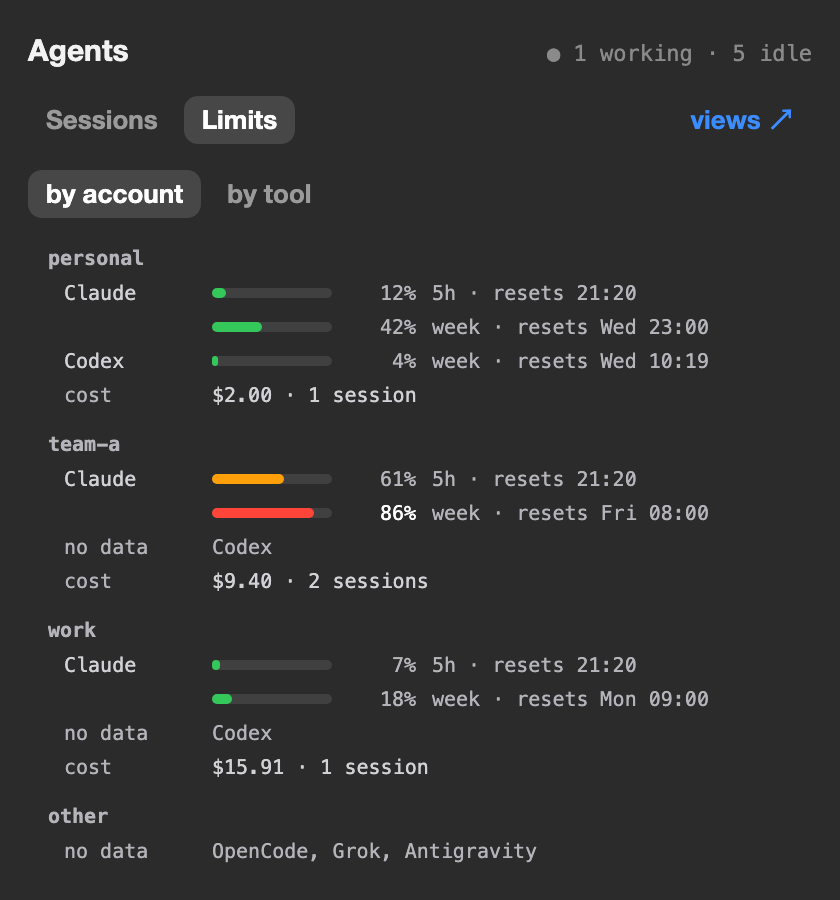
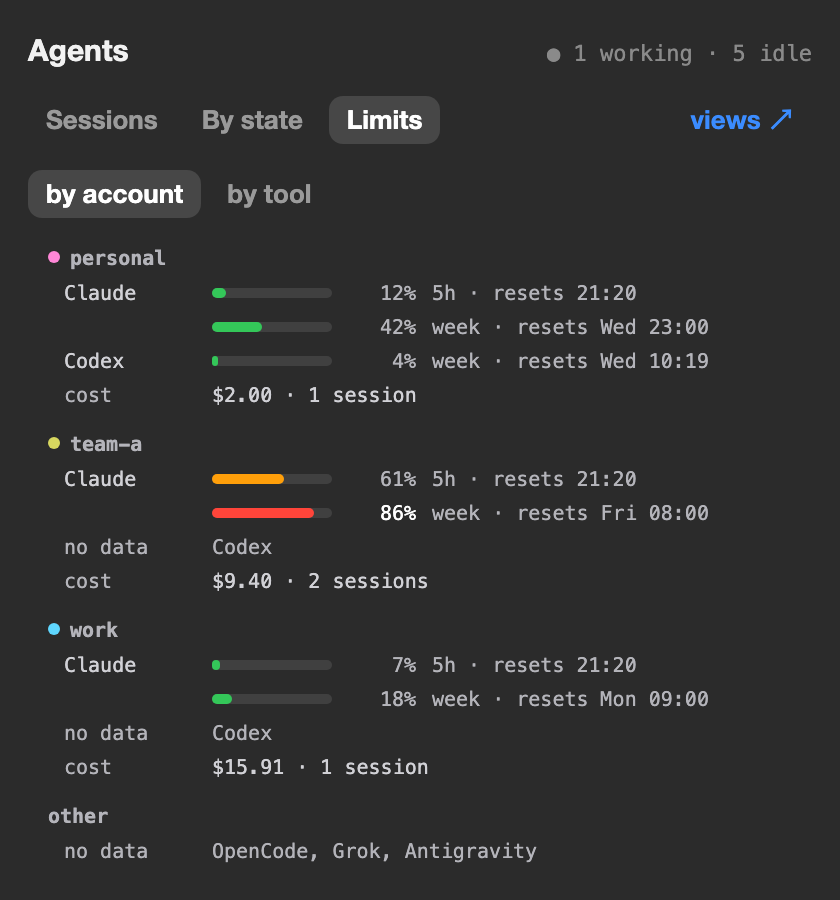
Cut the controls to three rows; account dots; chip colours as on the rows
Row 1 is Sessions | By state | Limits. Here is a chip. The attention sort,
the word account and the zero-count chip are gone. An account name is
neutral with a dot in its colour. The train strip hides in Limits.

Claude-Session: https://claude.ai/code/session_01HXnduJEMf4sVkPrvQkemg9

diff --git a/sidebars/agents.js b/sidebars/agents.js
@@ -30,7 +30,6 @@ const [showLimitsS, setShowLimitsS] = signal(null);
 const [scopeAllS, setScopeAllS] = signal(null);
 const [showEndedS, setShowEndedS] = signal(null);
 const [filterS, setFilterS] = signal(null);
-const [attentionS, setAttentionS] = signal(null);
 // Groups folded or opened since the reload (workspace id -> Bool) and sessions whose subagent rows are open (row id -> true).
 const [collapsedS, setCollapsedS] = signal({});
 const VIEW_RE = /^@view: ([a-z]=[a-z0-9]{1,12}(?:,[a-z]=[a-z0-9]{1,12}){0,7})$/;
@@ -75,7 +74,6 @@ const acctColor = (name) => {
 const flip = (get, set, id) => set({ ...get(), [id]: !get()[id] });
 // One filter chip at a time ("" = all rows), and the row order: tab order, or the sessions that need attention first.
 const filter = () => { const c = filterS() ?? saved().c; return FILTERS.some((f) => f[0] === c) ? c : ""; };
-const attention = () => attentionS() ?? saved().a;
 // Each chip is a short mark, so the row fits a narrow panel; the full name shows on hover.
 const FILTERS = [["needs", "!", "needs you"], ["done", "✓", "finished, not seen"], ["working", "▶", "working"], ["ctx", "80%", "context 80% or more"], ["pr", "PR", "has a PR"], ["idle", "1h+", "idle for 1 hour or more"], ["you", "you", "the next step is yours"], ["push", "push", "commits that no remote holds"]];
 // "Next: you push both repos": the next step is the reader's when the line starts with "you" or "owner".
@@ -106,14 +104,15 @@ function persist(next, wsId, fold) {
 }
 // One change of the view: c = chip, a = attention sort, s = all workspaces, e = ended rows, l = the Limits view.
 function setView(patch) {
-  const next = { c: filter(), a: attention(), s: scopeAll(), e: showEnded(), l: showLimits(), ...patch };
-  setFilterS(next.c); setAttentionS(next.a); setScopeAllS(next.s); setShowEndedS(next.e); setShowLimitsS(next.l);
+  // "a" was the attention sort; the panel has no such control now, and the saved view keeps the field as off.
+  const next = { c: filter(), a: false, s: scopeAll(), e: showEnded(), l: showLimits(), ...patch };
+  setFilterS(next.c); setScopeAllS(next.s); setShowEndedS(next.e); setShowLimitsS(next.l);
   persist(next, data.selectedId());
 }
 function toggleFold(wsId) {
   const fold = !collapsed()[wsId];
   setCollapsedS({ ...collapsedS(), [wsId]: fold });
-  persist({ c: filter(), a: attention(), s: scopeAll(), e: showEnded(), l: showLimits() }, wsId, fold);
+  persist({ c: filter(), a: false, s: scopeAll(), e: showEnded(), l: showLimits() }, wsId, fold);
 }
 
 // One agent record per tab: cmux can keep an older live record for the same tab. The record that waits or works
@@ -567,7 +566,7 @@ const view = computed(() => {
     if (rows.length === 0 && (query().trim() || filter() || acctFilter())) continue;
     // Same order as the tabs of the workspace; waiting sessions also show in the top block.
     // The "attention" toggle puts the sessions that need the owner first, and keeps tab order inside each rank.
-    rows.sort((x, y) => (attention() ? x.rank - y.rank : 0) || x.tabIndex - y.tabIndex);
+    rows.sort((x, y) => x.tabIndex - y.tabIndex);
     out.push({
       // An empty workspace is a thin line, not a band: the key carries the form, as for the rows.
       // The start menu is built with the row, so the key also carries its items.
@@ -999,19 +998,21 @@ function toggleButton(labelFn, activeFn, onTapFn, rank) {
 // One segment of the Here | All | Limits group. The selected one has the light fill and no hover.
 const segment = (label, activeFn, onTapFn) =>
   Text(label).font(11).monospaced().weight("medium").lineLimit(1).fixedSize()
-    .paddingHorizontal(10).paddingVertical(4).cornerRadius(6)
+    .paddingHorizontal(10).frame({ minHeight: 24 }).cornerRadius(6)
     .color(() => (activeFn() ? "primary" : META))
     // No hover fill: a hover fill beside the selected one reads as two selections.
     .background(() => (activeFn() ? "#FFFFFF2E" : "clear"))
     .onTap(onTapFn);
 // A capsule chip: a label and its count.
 // With a colour, the label carries it (the colour of that state or account on the rows); the active chip is white on a tint of it.
-const chip = (labelFn, countFn, activeFn, onTapFn, colorFn) =>
+// With a dot colour, a small dot comes first and the label stays neutral: a coloured label is a state, a dot an account.
+const chip = (labelFn, countFn, activeFn, onTapFn, colorFn, dotFn) =>
   HStack({ spacing: 4 }, [
+    ...(dotFn ? [Circle({ size: 6 }).fill(dotFn)] : []),
     Text(labelFn).font(11).monospaced().weight("medium").lineLimit(1).fixedSize().color(() => (activeFn() ? "primary" : colorFn?.() ?? TEXT2)),
-    Text(countFn).font(10).monospaced().lineLimit(1).fixedSize().color(META),
+    ...(countFn ? [Text(countFn).font(10).monospaced().lineLimit(1).fixedSize().color(META)] : []),
   ])
-    .paddingHorizontal(10).paddingVertical(4).cornerRadius(12)
+    .paddingHorizontal(10).frame({ minHeight: 24 }).cornerRadius(12)
     .background(() => (activeFn() ? (colorFn?.() ? colorFn() + "40" : "#FFFFFF26") : "#FFFFFF0F"))
     .hoverBackground("#FFFFFF1A")
     .onTap(onTapFn);
@@ -1199,9 +1200,10 @@ function stripRow(entry) {
 // the window, reset time and age. A line without a live window, and a cost line, shows its text after the tool column.
 // The account name of a group is a small muted header with space above it (no box, no rule).
 const limitHead = (entry) =>
-  HStack({ spacing: 0 }, [
-    // An account header carries the colour of that account, as its chip and its pills do.
-    Text(() => entry().label).font(10).monospaced().weight("semibold").color(() => (entry().acct ? acctColor(entry().acct) : META)).lineLimit(1).truncation("tail"),
+  HStack({ spacing: 5 }, [
+    // An account header has the dot of that account, as its chip has; the name stays neutral beside the bars.
+    Circle({ size: 6 }).fill(() => (entry().acct ? acctColor(entry().acct) : "clear")),
+    Text(() => entry().label).font(11).monospaced().weight("semibold").color(TEXT2).lineLimit(1).truncation("tail"),
     Spacer(),
   ]).paddingHorizontal(10).paddingTop(() => (entry().first ? 0 : 8));
 function limitRow(entry) {
@@ -1424,7 +1426,7 @@ function childRow(entry) {
 
 // The view differs from the default: a chip, an account, the attention sort, one workspace, ended rows, or the
 // view by state. The Reset chip shows then.
-const viewChanged = () => Boolean(filter() || acctFilter() || attention() || !scopeAll() || showEnded() || byState());
+const viewChanged = () => Boolean(filter() || acctFilter() || !scopeAll() || showEnded() || byState());
 // Back to the default view: no chip, no account, tab order, all workspaces, no ended rows, no view by state.
 // The search text stays.
 function resetView() {
@@ -1437,15 +1439,15 @@ function resetView() {
 // "needs" and "working" are the counts in the panel head; their chip shows only while it is the active filter.
 const HEAD_CHIPS = ["needs", "working"];
 const chipItems = () => FILTERS
-  .filter((f) => filter() === f[0] || (!HEAD_CHIPS.includes(f[0]) && (view().chips[f[0]] ?? 0) > 0))
+  .filter((f) => (view().chips[f[0]] ?? 0) > 0 && (filter() === f[0] || !HEAD_CHIPS.includes(f[0])))
   .map((f) => ({ id: f[0], label: f[1], help: f[2] }));
-// One colour per filter, the one that its state has on the rows: orange asks, purple finished, blue works, green idle.
-const CHIP_COLORS = { needs: ORANGE, you: ORANGE, push: ORANGE, done: PURPLE_TEXT, working: BLUE_TEXT, ctx: "#FFD60A", pr: "#64D2FF", idle: "#34C759" };
+// A filter has a colour only when its rows show that colour: orange asks, purple finished, blue works, red context
+// from 80%. The others (PR, push, idle, ended) are neutral, as their marks on the rows are.
+const CHIP_COLORS = { needs: ORANGE, you: ORANGE, done: PURPLE_TEXT, working: BLUE_TEXT, ctx: RED_TEXT };
 const filterChip = (f) =>
   chip(() => f().label, () => String(view().chips[f().id] ?? 0), () => filter() === f().id, () => setView({ c: filter() === f().id ? "" : f().id }),
     () => CHIP_COLORS[f().id])
-    .help(() => f().help)
-    .opacity(() => ((view().chips[f().id] ?? 0) === 0 && filter() !== f().id ? 0.45 : 1));
+    .help(() => f().help);
 const resetChip = () =>
   Text("✕ Reset").font(11).monospaced().weight("medium").lineLimit(1).fixedSize().color(ORANGE)
     .paddingHorizontal(10).paddingVertical(4).cornerRadius(12)
@@ -1492,11 +1494,12 @@ sidebar(() =>
       // No text: this view reads the tab titles, so it runs again when one changes, and serves the hive page's jumps.
       // It sits under the control row, so it adds no gap to a row.
       Text(() => hiveGo()).font(1),
-      // Row 1, what you look at: the sessions or the limits. The link at the right leaves the panel: it opens the
-      // views page in the browser (the hive tree, the timeline, cost, flow, limits, queue, context and rhythm).
+      // Row 1, what you look at: the sessions by workspace, the sessions by state, or the limits. The link at the
+      // right leaves the panel: it opens the views page in the browser (the hive tree, the timeline, cost, flow, ...).
       HStack({ spacing: 4 }, [
         HStack({ spacing: 0 }, [
-          segment("Sessions", () => !showLimits(), () => setView({ l: false })),
+          segment("Sessions", () => !showLimits() && !byState(), () => { setByState(false); setView({ l: false }); }),
+          segment("By state", () => !showLimits() && byState(), () => { setByState(true); setView({ l: false }); }),
           segment("Limits", () => showLimits(), () => setView({ l: !showLimits() })),  // a second click goes back to the sessions
         ]),
         Spacer(),
@@ -1504,17 +1507,6 @@ sidebar(() =>
       ]).paddingHorizontal(10),
     ]),
 
-    // Row 2, how it is arranged. A control with no effect in a view is not shown there.
-    // Sessions: this workspace or all, then the grouping by state and the attention sort.
-    optional("arrange", () => !limitsShown(), () => HStack({ spacing: 4 }, [
-      HStack({ spacing: 0 }, [
-        segment("Here", () => !scopeAll(), () => setView({ s: false })),
-        segment("All", () => scopeAll(), () => setView({ s: true })),
-      ]),
-      Spacer(),
-      toggleButton("by state", () => byState(), () => setByState(!byState()), 2),
-      toggleButton("attention first", () => attention(), () => setView({ a: !attention() }), 1),
-    ]).paddingHorizontal(10)),
     // Limits: per account (what one account uses and costs) or per tool (which account of a tool has room).
     optional("limits-group", limitsShown, () => HStack({ spacing: 0 }, [
       segment("by account", () => !limitsByTool(), () => setLimitsByTool(false)),
@@ -1522,26 +1514,26 @@ sidebar(() =>
       Spacer(),
     ]).paddingHorizontal(10)),
 
-    // Row 3, what is filtered (sessions only). A second click on the active chip shows all rows again. The chip
-    // "ended" adds the ended sessions to the list. Then the Reset chip.
-    optional("chips", () => !limitsShown() && (chipItems().length || viewChanged() || counts().ended > 0), () => HStack({ spacing: 4 }, [
+    // Row 2, what is filtered (sessions only). "Here" keeps the open workspace only. A second click on the active
+    // chip shows all rows again. The chip "ended" adds the ended sessions to the list. Then the Reset chip.
+    optional("chips", () => !limitsShown(), () => HStack({ spacing: 4 }, [
+      chip("Here", null, () => !scopeAll(), () => setView({ s: !scopeAll() })).help("Only the open workspace"),
       ForEach({ items: chipItems, key: (f) => f.id }, filterChip),
       optional("ended", () => counts().ended > 0 || showEnded(), () =>
-        chip("ended", () => String(counts().ended), () => showEnded(), () => setView({ e: !showEnded() }), () => META)
+        chip("ended", () => String(counts().ended), () => showEnded(), () => setView({ e: !showEnded() }))
           .help("Show the ended sessions too")),
       Spacer(),
       optional("reset", viewChanged, resetChip),
     ]).paddingHorizontal(10)),
-    // One chip per account, after the word "account". A second click shows all again.
+    // Row 3: one chip per account, with a dot in the colour of the account. A second click shows all again.
     optional("accts", () => !limitsShown() && acctItems().length, () => HStack({ spacing: 4 }, [
-      Text("account").font(10).monospaced().color(META).lineLimit(1).fixedSize(),
       ForEach({ items: acctItems, key: (a) => a.id },
         (a) => chip(() => a().id, () => String(a().n), () => acctFilter() === a().id, () => setAcctFilter(acctFilter() === a().id ? "" : a().id),
-          () => acctColor(a().id))),
+          null, () => acctColor(a().id)).help("Filter by account")),
       Spacer(),
     ]).paddingHorizontal(10)),
 
-    optional("strip", () => strip().length, () => VStack({ spacing: 2 }, [ForEach({ items: strip, key: (s) => s.key }, (s) => stripRow(s))])),
+    optional("strip", () => !limitsShown() && strip().length, () => VStack({ spacing: 2 }, [ForEach({ items: strip, key: (s) => s.key }, (s) => stripRow(s))])),
     // The Limits view takes the place of the session list.
     optional("limits", limitsShown, () => VStack({ spacing: 3 }, [ForEach({ items: limitRows, key: (s) => s.key }, (s) => limitRow(s))])),
 

diff --git a/examples/limits.html b/examples/limits.html
@@ -29,20 +29,20 @@
 </style></head>
 <body>
   <div class="head"><h1>Agents</h1><span class="mono dim" style="font-size:11px">● 1 working · 5 idle</span></div>
-  <div class="bar"><span>Sessions</span><span class="on">Limits</span><span class="sp"></span><span class="link">views ↗</span></div>
+  <div class="bar"><span>Sessions</span><span>By state</span><span class="on">Limits</span><span class="sp"></span><span class="link">views ↗</span></div>
   <div class="bar"><span class="on">by account</span><span >by tool</span></div>
   <div class="rows">
-    <div class="grp">personal</div>
+    <div class="grp"><i style="display:inline-block;width:6px;height:6px;border-radius:3px;margin-right:5px;vertical-align:1px;background:#ff87d7"></i>personal</div>
     <div class="ln"><span class="t">Claude</span><span class="trk"><i style="width:7px;background:#34c759"></i></span><span class="p">12%</span><span>5h · resets 21:20</span></div>
     <div class="ln"><span class="t"></span><span class="trk"><i style="width:25px;background:#34c759"></i></span><span class="p">42%</span><span>week · resets Wed 23:00</span></div>
     <div class="ln"><span class="t">Codex</span><span class="trk"><i style="width:3px;background:#34c759"></i></span><span class="p">4%</span><span>week · resets Wed 10:19</span></div>
     <div class="ln"><span class="t m">cost</span><span class="cost">$2.00 · 1 session</span></div>
-    <div class="grp">team-a</div>
+    <div class="grp"><i style="display:inline-block;width:6px;height:6px;border-radius:3px;margin-right:5px;vertical-align:1px;background:#d7d75f"></i>team-a</div>
     <div class="ln"><span class="t">Claude</span><span class="trk"><i style="width:36px;background:#ff9f0a"></i></span><span class="p">61%</span><span>5h · resets 21:20</span></div>
     <div class="ln"><span class="t"></span><span class="trk"><i style="width:51px;background:#ff453a"></i></span><span class="p hot">86%</span><span>week · resets Fri 08:00</span></div>
     <div class="ln"><span class="t m">no data</span><span>Codex</span></div>
     <div class="ln"><span class="t m">cost</span><span class="cost">$9.40 · 2 sessions</span></div>
-    <div class="grp">work</div>
+    <div class="grp"><i style="display:inline-block;width:6px;height:6px;border-radius:3px;margin-right:5px;vertical-align:1px;background:#5fd7ff"></i>work</div>
     <div class="ln"><span class="t">Claude</span><span class="trk"><i style="width:4px;background:#34c759"></i></span><span class="p">7%</span><span>5h · resets 21:20</span></div>
     <div class="ln"><span class="t"></span><span class="trk"><i style="width:10px;background:#34c759"></i></span><span class="p">18%</span><span>week · resets Mon 09:00</span></div>
     <div class="ln"><span class="t m">no data</span><span>Codex</span></div>

diff --git a/examples/panel.html b/examples/panel.html
@@ -11,7 +11,9 @@
   .bar span { padding: 4px 9px; border-radius: 6px; }
   .bar .on { background: #4a4a4a; color: #fff; }
   .bar .sp { flex: 1; padding: 0; }
-  .chip { display: inline-block; margin: 10px 10px 0; padding: 4px 10px; border-radius: 10px; background: #3a3a3a; font-weight: 600; font-size: 12px; }
+  .chips { display: flex; gap: 4px; margin: 8px 10px 0; }
+  .chip { display: inline-flex; align-items: center; height: 24px; padding: 0 10px; border-radius: 12px; background: #3a3a3a; font-weight: 600; font-size: 12px; color: #d1d1d6; }
+  .chip i { width: 6px; height: 6px; border-radius: 3px; margin-right: 5px; }
   .chip small { color: #b4b4ba; font-weight: 400; margin-left: 4px; font-size: 11px; }
   .strip { margin: 10px 10px 0; font-size: 11.5px; line-height: 17px; }
   .strip div { display: flex; align-items: center; }
@@ -51,9 +53,9 @@
 </style></head>
 <body>
   <div class="head"><h1>Agents</h1><span class="tot"><span style="color:#5aa9ff">2 working</span><span style="color:#5ecb6b">4 idle</span><span class="mono" style="color:#d1d1d6">$68</span></span></div>
-  <div class="bar"><span class="on">Sessions</span><span>Limits</span><span class="sp"></span><span>views ↗</span></div>
-  <div class="bar"><span>Here</span><span class="on">All</span><span class="sp"></span><span>by state</span><span>attention first</span></div>
-  <span class="chip">you<small>2</small></span>
+  <div class="bar"><span class="on">Sessions</span><span>By state</span><span>Limits</span><span class="sp"></span><span style="color:#5aa9ff">views ↗</span></div>
+  <div class="chips"><span class="chip">Here</span><span class="chip" style="color:#ffb340">you<small>2</small></span><span class="chip">PR<small>1</small></span><span class="chip">ended<small>3</small></span></div>
+  <div class="chips"><span class="chip"><i style="background:#ff87d7"></i>personal<small>4</small></span><span class="chip"><i style="background:#5fd7ff"></i>work<small>2</small></span></div>
   <div class="strip">
     <div><span class="k">train</span><span>merged #42</span></div>
     <div><span class="k">claude</span><span class="p">36%</span><span class="m"><i style="width:36%"></i></span><span class="r">personal · week · resets Wed 23:00</span></div>

diff --git a/examples/window.html b/examples/window.html
@@ -151,9 +151,8 @@
     <div class="col panel">
       <div class="ptop"><span>Files</span><span>Find</span><span>Vault</span><span>Feed</span><span>Dock</span><span>Cloud</span></div>
       <div class="phead"><b>Agents</b><span>1 needs you · 2 working · 2 idle · $45.59</span></div>
-      <div class="row"><span class="btn on">Sessions</span><span class="btn">Limits</span><span class="sp"></span><span class="link">views ↗</span></div>
-      <div class="row"><span class="btn">Here</span><span class="btn on">All</span><span class="sp"></span><span class="btn">by state</span><span class="btn">attention first</span></div>
-      <div class="row"><span class="chip">!<i>1</i></span><span class="chip">▶<i>2</i></span><span class="chip">80%<i>1</i></span><span class="chip">PR<i>1</i></span><span class="chip zero">1h+<i>0</i></span><span class="chip">ended<i>2</i></span><span class="sp"></span></div>
+      <div class="row"><span class="btn on">Sessions</span><span class="btn">By state</span><span class="btn">Limits</span><span class="sp"></span><span class="link">views ↗</span></div>
+      <div class="row"><span class="chip">Here</span><span class="chip" style="color:#ff6b61">80%<i>1</i></span><span class="chip">PR<i>1</i></span><span class="chip">ended<i>2</i></span><span class="sp"></span></div>
       <div class="strip"><span>train</span><span>merged #11; refused none</span><span>week</span><span>36% of the 7-day limit used</span></div>
       <div class="search">Search agents</div>
 

diff --git a/examples/limits-tools.html b/examples/limits-tools.html
@@ -29,7 +29,7 @@
 </style></head>
 <body>
   <div class="head"><h1>Agents</h1><span class="mono dim" style="font-size:11px">● 1 working · 5 idle</span></div>
-  <div class="bar"><span>Sessions</span><span class="on">Limits</span><span class="sp"></span><span class="link">views ↗</span></div>
+  <div class="bar"><span>Sessions</span><span>By state</span><span class="on">Limits</span><span class="sp"></span><span class="link">views ↗</span></div>
   <div class="bar"><span >by account</span><span class="on">by tool</span></div>
   <div class="rows">
     <div class="grp">Claude</div>

diff --git a/README.md b/README.md
@@ -29,8 +29,7 @@ All pictures in this file are renders with sample names and sample figures.
 | `NEEDS YOU` block | All sessions that wait for your input, at the top, with the reason when it is known |
 | Filter chips | `80%` context nearly full, `PR` has a pull request, `1h+` idle for an hour, `you` the next step is yours, `push` commits that no remote holds. Each chip shows its count and names its filter on hover |
 | Head counts | `1 need you` and `2 working` at the top filter the list to those sessions; a second tap shows all. The `idle` count has no tap, because the `1h+` chip counts only sessions idle for an hour |
-| `attention first` | Sort: sessions that need attention first; the default order is the tab order |
-| `✕ Reset` | Shows when the view is not the default. Back to the default view: no chip, no account, tab order, all workspaces, no ended rows, no `by state` grouping. The search text stays |
+| `✕ Reset` | Shows when the view is not the default. Back to the default view: no chip, no account, all workspaces, no ended rows, no `By state` grouping. The search text stays |
 | Subagents | `▸ 2 sub` on a row opens the subagent rows. The count comes from cmux, or from the Claude Code records when cmux reports none |
 | Details | `›` on a row opens state, tool, folder, branch, ports, first and last request |
 | Right-click menu | Go to session, copy name, copy folder, copy PR number, fast commands |
@@ -59,7 +58,7 @@ All pictures in this file are renders with sample names and sample figures.
 | Health | One mark per row, the worst first: `loop 6` (red: 6 failed tool calls in a row), `overlap 2` (yellow: 2 files also edited by another session), `silent 1` (yellow: a subagent with no output for 10 minutes to 2 hours). The row details list all of them, with the total of failed tool calls and API errors; that total is not a mark, because every long session has one |
 | On its agents | A session that ended its turn while its subagents still run shows `agents running` and is not counted in `NEEDS YOU` until they end. A permission or a question always counts |
 | Not seen | A session that ended its turn in a tab without focus is `finished · not seen` until you open the tab (kept until the panel reloads) |
-| `by state` | Next to `attention first`: groups the rows by state in place of by workspace: `NEEDS YOU`, `FINISHED · NOT SEEN`, `RUNNING`, `RECENT` (idle under 1 hour), `IDLE`. Each row then carries its workspace as a pill. Not saved across reloads |
+| `By state` | In row 1, between `Sessions` and `Limits`: groups the rows by state in place of by workspace: `NEEDS YOU`, `FINISHED · NOT SEEN`, `RUNNING`, `RECENT` (idle under 1 hour), `IDLE`. Each row then carries its workspace as a pill. Not saved across reloads |
 | Limit bars | Each live limit window has a bar and its percent in fixed columns: green, orange from 50%, red from 80%. Each limit line of the strip has a small bar too. The `train` line leaves out clauses such as `refused none` |
 | Empty list | `No sessions yet` when no session runs. `Nothing matches` when a chip, an account, `Here` or the search hides every session; `Clear filters` resets the view and the search |
 | Work marks | In orange on a row: `dup` when two live sessions work in one folder on one work branch, `↑2` for 2 commits that no remote holds, `⟳3` from the third context compaction |
@@ -82,13 +81,12 @@ From top to bottom of the picture. "You do" says what the mark asks of you.
 | Mark | Meaning | You do |
 |---|---|---|
 | `2 working` `4 idle` `$68` | Sessions that work now, sessions that wait, summed cost of the open sessions | Click a count to filter the list to those sessions |
-| `Sessions` `Limits` | Row 1, what you look at: the session list, or the rate limits per tool and account. A control with no effect in a view is not shown there | Click one; the panel remembers it |
-| `Here` `All` | Row 2 of `Sessions`: the sessions of the open workspace, or every workspace | Click one; the panel remembers it |
-| `by state` | Row 2 of `Sessions`: groups the rows by state in place of by workspace | Click to turn on or off |
-| `attention first` | Row 2 of `Sessions`: sorts sessions that need attention first | Click to turn on or off |
+| `Sessions` `By state` `Limits` | Row 1, what you look at: the sessions by workspace, the sessions by state, or the rate limits per tool and account. A control with no effect in a view is not shown there | Click one; a second click on `Limits` goes back to the sessions |
+| `Here` chip | Row 2 of the session views, first chip: only the sessions of the open workspace. Off means every workspace | Click to turn on or off; the panel remembers it |
 | `by account` `by tool` | Row 2 of `Limits`, its only control: the grouping of the limits. The search field and the chips belong to the session list and do not show here | Click one |
-| Chip colours | A filter chip carries the colour of its state on the rows: orange asks you, purple finished, blue works, yellow context, green idle, grey ended. An account chip and an account header in `Limits` carry the colour of that account. The active chip is white on a tint of its colour; `views ↗` is blue because it leaves the panel | — |
-| `ended` chip | Row 3 of `Sessions`, with the filter chips, with the number of ended sessions. Also shows sessions that ended. The ended runs of a tab that hosts a live session share one row, `3 earlier runs in this tab`, with no marks, no cost and no focus: those belong to the live session | Click to turn on or off |
+| Chip colours | A filter chip has a colour only when its rows show that colour: orange asks you, purple finished, blue works, red context from 80%. `PR`, `push`, `1h+`, `ended` and `Here` are neutral, as their marks on the rows are. A chip with a count of 0 is not shown. The active chip is white on a tint; `views ↗` is blue because it leaves the panel | — |
+| Account dot | An account name is neutral text with a small dot in the colour of that account: on its chip (row 3) and on its header in `Limits`. Coloured text always means a state, a dot always means an account | Click an account chip to filter; click again for all |
+| `ended` chip | Row 2 of the session views, with the filter chips, with the number of ended sessions. Also shows sessions that ended. The ended runs of a tab that hosts a live session share one row, `3 earlier runs in this tab`, with no marks, no cost and no focus: those belong to the live session | Click to turn on or off |
 | `views ↗` | Opens the views page: the hive graph, and six more pictures of the same data | Click |
 | `you 2` chip | 2 sessions whose next step is yours | Click to see only those |
 | `train` line | One line of project state from a watcher of your own (optional) | Read |
